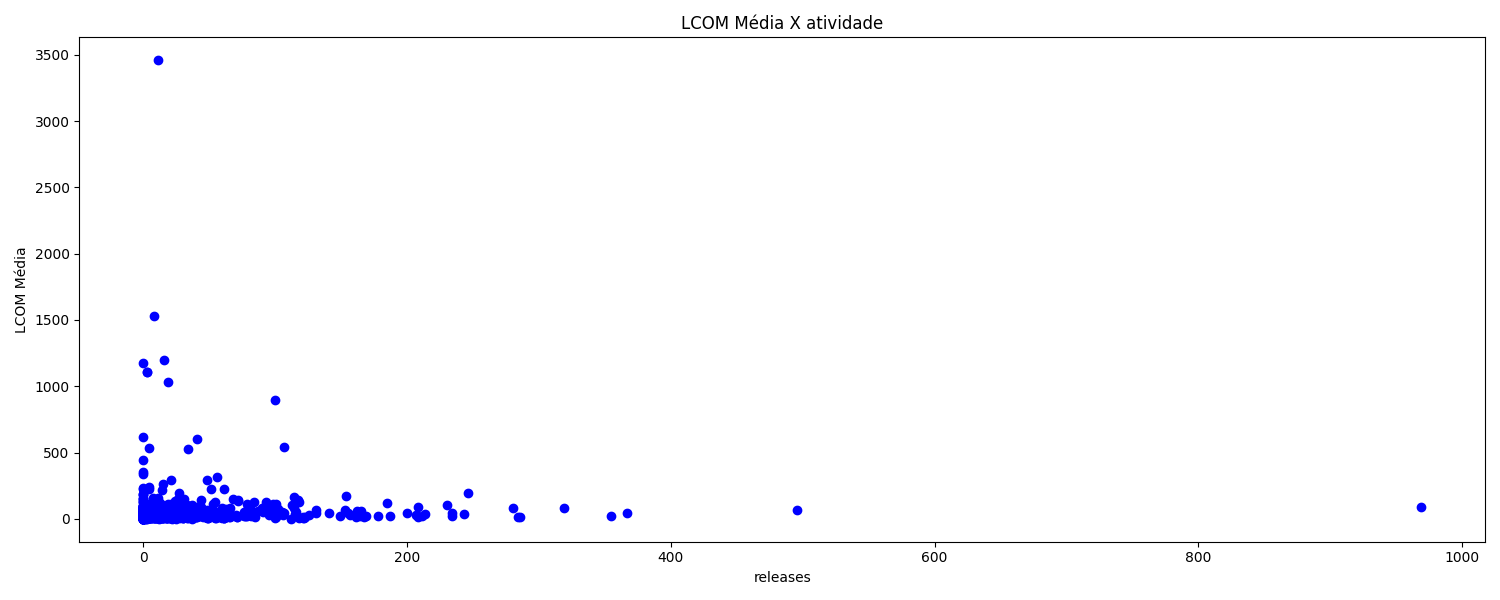
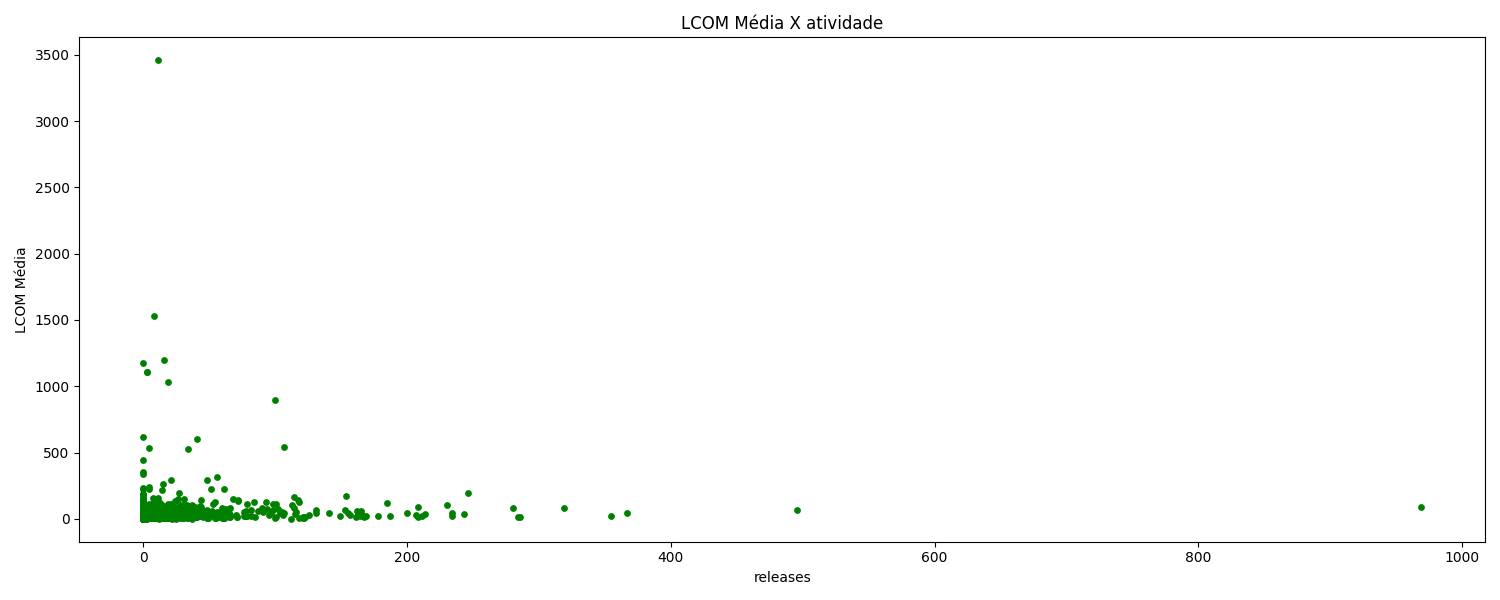
graph and report updates

diff --git a/plot/quality.py b/plot/quality.py
@@ -11,7 +11,7 @@ def quality_created_at(dataframe):
     plt.figure(figsize=(15, 6))
 
     # cbo_media
-    plt.scatter(created_at, cbo_media, label='CBO Média', color='blue', marker='o')
+    plt.scatter(created_at, cbo_media, label='CBO Média', color='blue', marker='o', s=15)
 
     plt.title('CBO Média X Maturidade')
     plt.xlabel('created_at')
@@ -23,7 +23,7 @@ def quality_created_at(dataframe):
     plt.clf()
 
     # dit_media
-    plt.scatter(created_at, dit_media, label='DIT Média', color='blue')
+    plt.scatter(created_at, dit_media, label='DIT Média', color='red', marker='o', s=15)
     plt.title('DIT Média X Maturidade')
     plt.xlabel('created_at')
     plt.ylabel('DIT Média')
@@ -32,7 +32,7 @@ def quality_created_at(dataframe):
     plt.clf()
 
     # lcom_media
-    plt.scatter(created_at, lcom_media, label='LCOM Média', color='blue')
+    plt.scatter(created_at, lcom_media, label='LCOM Média', color='green', marker='o', s=15)
     plt.title('LCOM Média X Maturidade')
     plt.xlabel('created_at')
     plt.ylabel('LCOM Média')
@@ -49,7 +49,7 @@ def quality_loc(dataframe):
     plt.figure(figsize=(15, 6))
 
     # cbo_media
-    plt.scatter(loc_soma, cbo_media, label='CBO Média', color='blue', marker='o')
+    plt.scatter(loc_soma, cbo_media, label='CBO Média', color='blue', marker='o', s=15)
 
     plt.title('CBO Média X tamanho')
     plt.xlabel('loc')
@@ -61,7 +61,7 @@ def quality_loc(dataframe):
     plt.clf()
 
     # dit_media
-    plt.scatter(loc_soma, dit_media, label='DIT Média', color='blue')
+    plt.scatter(loc_soma, dit_media, label='DIT Média', color='red', marker='o', s=15)
     plt.title('DIT Média X tamanho')
     plt.xlabel('loc')
     plt.ylabel('DIT Média')
@@ -70,7 +70,7 @@ def quality_loc(dataframe):
     plt.clf()
 
     # lcom_media
-    plt.scatter(loc_soma, lcom_media, label='LCOM Média', color='blue')
+    plt.scatter(loc_soma, lcom_media, label='LCOM Média', color='green', marker='o', s=15)
     plt.title('LCOM Média X tamanho')
     plt.xlabel('loc')
     plt.ylabel('LCOM Média')
@@ -87,7 +87,7 @@ def quality_releases(dataframe):
     plt.figure(figsize=(15, 6))
 
     # cbo_media
-    plt.scatter(releases, cbo_media, label='CBO Média', color='blue', marker='o')
+    plt.scatter(releases, cbo_media, label='CBO Média', color='blue', marker='o', s=15)
 
     plt.title('CBO Média X atividade')
     plt.xlabel('releases')
@@ -99,7 +99,7 @@ def quality_releases(dataframe):
     plt.clf()
 
     # dit_media
-    plt.scatter(releases, dit_media, label='DIT Média', color='blue')
+    plt.scatter(releases, dit_media, label='DIT Média', color='red', marker='o', s=15)
     plt.title('DIT Média X atividade')
     plt.xlabel('releases')
     plt.ylabel('DIT Média')
@@ -108,7 +108,7 @@ def quality_releases(dataframe):
     plt.clf()
 
     # lcom_media
-    plt.scatter(releases, lcom_media, label='LCOM Média', color='blue')
+    plt.scatter(releases, lcom_media, label='LCOM Média', color='green', marker='o', s=15)
     plt.title('LCOM Média X atividade')
     plt.xlabel('releases')
     plt.ylabel('LCOM Média')
@@ -125,7 +125,7 @@ def quality_stars(dataframe):
     plt.figure(figsize=(15, 6))
 
     # cbo_media
-    plt.scatter(stars, cbo_media, label='CBO Média', color='blue', marker='o')
+    plt.scatter(stars, cbo_media, label='CBO Média', color='blue', marker='o', s=15)
 
     plt.title('CBO Média X popularidade')
     plt.xlabel('stars')
@@ -137,7 +137,7 @@ def quality_stars(dataframe):
     plt.clf()
 
     # dit_media
-    plt.scatter(stars, dit_media, label='DIT Média', color='blue')
+    plt.scatter(stars, dit_media, label='DIT Média', color='red', marker='o', s=15)
     plt.title('DIT Média X popularidade')
     plt.xlabel('stars')
     plt.ylabel('DIT Média')
@@ -146,7 +146,7 @@ def quality_stars(dataframe):
     plt.clf()
 
     # lcom_media
-    plt.scatter(stars, lcom_media, label='LCOM Média', color='blue')
+    plt.scatter(stars, lcom_media, label='LCOM Média', color='green', marker='o', s=15)
     plt.title('LCOM Média X popularidade')
     plt.xlabel('stars')
     plt.ylabel('LCOM Média')

diff --git a/plot/summary.py b/plot/summary.py
@@ -34,6 +34,7 @@ def summary(dataframe):
     plt.boxplot(lcom_media)
 
     plt.title('LCOM Média')
+    plt.yscale('log')
 
     plt.tight_layout()
 
@@ -44,6 +45,7 @@ def summary(dataframe):
     plt.boxplot(loc_soma)
 
     plt.title('LOC')
+    plt.yscale('log')
 
     plt.tight_layout()
 

diff --git a/relatorio.md b/relatorio.md
@@ -2,7 +2,7 @@
 
 ## 1. Introdução
 
-Neste relatório, analisamos a qualidade de repositórios open-source desenvolvidos na linguagem Java, correlacionando diversas métricas de qualidade com características do processo de desenvolvimento desses repositórios. A hipótese principal é que repositórios mais populares, maduros e com maior atividade tendem a apresentar melhores atributos de qualidade interna, como menor acoplamento e maior coesão, devido à atenção mais frequente dos contribuidores e processos mais maduros de revisão e manutenção.
+Neste relatório, analisamos a qualidade de repositórios open-source desenvolvidos na linguagem Java, correlacionando diversas métricas de qualidade com características do processo de desenvolvimento desses repositórios. A hipótese principal é que repositórios mais populares, maduros e com maior atividade tendem a apresentar melhores atributos de qualidade interna, como menor acoplamento e maior coesão, devido à atenção mais frequente dos contribuidores e processos mais maduros de revisão e manutenção. Além disso, é esperado que projetos maiores tenham maior acoplamento e menor coesão do que projetos menores devido à alta complexidade de código.
 
 ## 2. Metodologia
 
@@ -23,7 +23,7 @@ As métricas de processo analisadas incluem:
 
 ### 2.3. Métricas de Qualidade
 
-Para avaliar a qualidade interna dos repositórios, utilizamos a ferramenta de análise estática CK, que gera métricas como:
+Para avaliar a qualidade interna dos repositórios, foram consideradas as seguintes métricas:
 
 - **CBO (Coupling Between Objects)**: mede o grau de acoplamento entre classes.
 - **DIT (Depth Inheritance Tree)**: mede a profundidade da árvore de herança.
@@ -34,6 +34,12 @@ Para avaliar a qualidade interna dos repositórios, utilizamos a ferramenta de a
 As métricas de processo foram coletadas utilizando a API GraphQL do GitHub, enquanto as métricas de qualidade foram extraídas por meio da análise estática do repositório clonado com a ferramenta CK. O CK gera arquivos .csv que foram sumarizados para realizar as correlações com as características de processo.
 
 ## 3. Resultados
+
+Os repositórios coletados apresentaram, em resumo, as seguintes métricas de qualidade:
+![](graphs/cbo_media.png)
+![](graphs/dit_media.png)
+![](graphs/lcom_media.png)
+![](graphs/loc_soma.png)
 
 ### RQ 01: Qual a relação entre a popularidade dos repositórios e suas características de qualidade?
 
@@ -65,7 +71,7 @@ Analisando os gráficos abaixo, podemos observar que a atividade dos repositóri
 
 ### RQ 04: Qual a relação entre o tamanho dos repositórios e suas características de qualidade?
 
-Repositórios maiores, como o **mall** (100.903 linhas de código), apresentam um **CBO mediano** de 3.0 e uma **LCOM média** extremamente alta (1.110,8), , porém isso não é regra. Observando o gráfico abaixo que isso é um caso isolado, e que possuímos outros repositórios maiores, mas com LCOM baixa, sendo assim, a alteração de linhas de código LOC não afeta perceptivelmente as métricas de qualidade.
+Repositórios maiores, como o **mall** (100.903 linhas de código), apresentam um **CBO mediano** de 3.0 e uma **LCOM média** extremamente alta (1.110,8), porém isso não é uma regra. Observando o gráfico abaixo, é possível perceber que isso é um caso isolado, e que possuímos outros repositórios maiores, mas com LCOM baixa. Sendo assim, a alteração de linhas de código LOC não afeta perceptivelmente as métricas de qualidade.
 
 ![](graphs/lcom_media_tamanho.png)
 ![](graphs/cbo_media_tamanho.png)
@@ -76,7 +82,11 @@ Repositórios maiores, como o **mall** (100.903 linhas de código), apresentam u
 
 ### Hipóteses
 
-A expectativa inicial era de que repositórios mais populares e maduros apresentariam melhores atributos de qualidade interna, como menor acoplamento e maior coesão. Também esperávamos que repositórios com maior atividade (número de releases) tivessem métricas de qualidade mais otimizadas devido à manutenção e refatoração contínua. Quanto ao tamanho, a hipótese era de que projetos maiores enfrentariam desafios em manter a modularidade e coesão.
+A expectativa inicial era de que repositórios mais populares e maduros apresentariam melhores atributos de qualidade interna, como menor acoplamento e maior coesão. Isso se deve ao fato de que projetos populares geralmente recebem mais contribuições de desenvolvedores, o que pode levar a uma melhoria contínua do código. Além disso, repositórios mais maduros tendem a ser mais estáveis.
+
+Também era esperado que repositórios com maior atividade (número de releases) tivessem métricas de qualidade mais otimizadas devido à manutenção e refatoração contínua. A constante liberação de novas versões poderia indicar um esforço para melhorar a qualidade do código por meio de refatorações.
+
+Quanto ao tamanho, a hipótese era de que projetos maiores enfrentariam desafios em manter a modularidade e coesão, já que a complexidade aumenta à medida em que o código cresce.
 
 ### Valores Obtidos
 
@@ -84,4 +94,4 @@ Os resultados obtidos a partir da coleta de dados desafiam as hipóteses. A vari
 
 ## 5. Conclusão
 
-Este laboratório demonstrou que a qualidade dos repositórios open-source Java pode variar consideravelmente, mesmo entre projetos populares e maduros. A maturidade, popularidade, atividade e tamanho dos repositórios não são indicadores claros de boa qualidade. As métricas de qualidade calculadas pela ferramenta CK forneceram insights valiosos, mas a falta de dados em alguns repositórios sugere a necessidade de maior cuidado na seleção e análise desses projetos.
+Este laboratório demonstrou que a qualidade dos repositórios open-source Java pode variar consideravelmente, mesmo entre projetos populares e maduros. A maturidade, popularidade, atividade e tamanho dos repositórios não são indicadores claros de boa qualidade. A falta de dados em alguns repositórios sugere a necessidade de maior cuidado na seleção e análise desses projetos.
